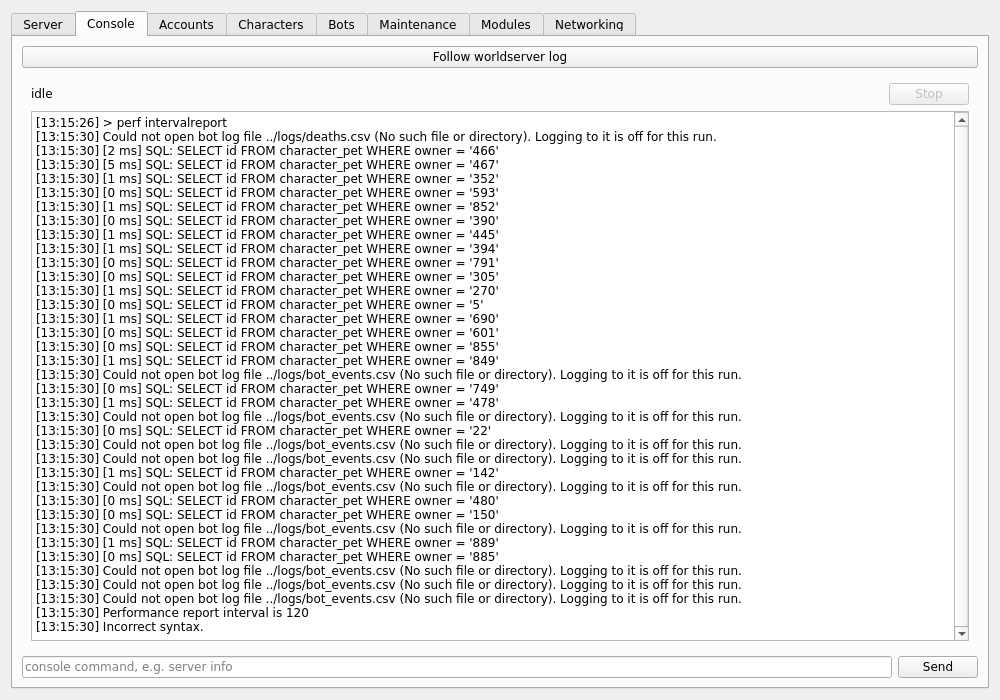
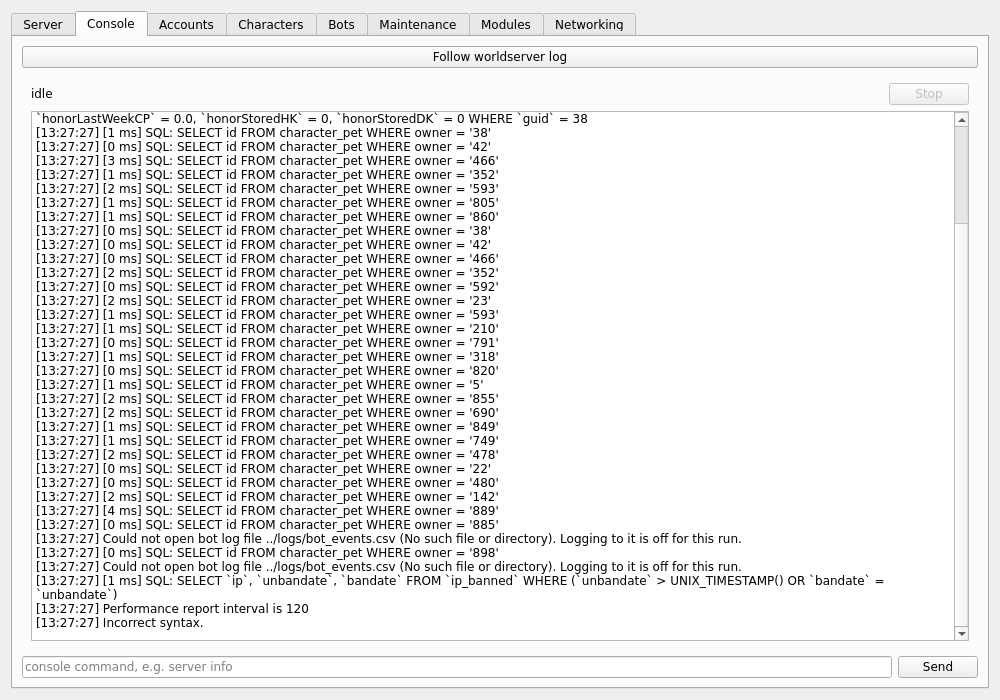
The gate re-run against the tree that actually ships
The first two passes ran a tree that black, ruff and mypy then changed. Nothing
behavioural moved, and re-running rather than asserting that is the point: run 3
is against the committed tip and its md5s are in the README beside the clauses.

The lane also paid for a warning worth leaving behind. Its FIRST --checks said
ALL GREEN over a tree containing none of the new files -- it was launched before
the commit and the helper syncs tracked files only, so it linted 183 files where
the finished tree has 186. The same command after the commit found five ruff
errors, one mypy error and two files black would reformat. Commit first, then
gate, and read the file count.

Changed region(s): [[0.031, 0.15, 0.868, 0.9]]

diff --git a/pyplan/gates/8.7d-tortoise-m910q-2026-09-08/README.md b/pyplan/gates/8.7d-tortoise-m910q-2026-09-08/README.md
@@ -1,4 +1,4 @@
-# 8.7d — Modules, WoW Tortoise — **RUN 2026-09-08 11:07Z–11:17Z on m910q**
+# 8.7d — Modules, WoW Tortoise — **RUN 2026-09-08 11:25Z–11:30Z on m910q**
 
 > **This file is a record, not a plan.** Every line below was produced against the
 > **live** Tortoise stack on m910q — `tortoise-db` / `tortoise-realmd` /
@@ -10,7 +10,7 @@
 >
 > **All five clauses passed.** Nothing was rebuilt, the source checkout was not
 > moved, and the box was left with the Tortoise stack up and
-> `etc/mangosd.conf` byte-identical to what it was at 11:07Z.
+> `etc/mangosd.conf` byte-identical to what it was at 11:25Z.
 
 **The box.** `pyplan/checklist.md:2504` — *"Modules, WoW Tortoise — as 8.7b, and
 nothing may run this fork's own database auto-update path while the world is up.
@@ -21,17 +21,41 @@ own in-game effect after the restart it asks for."*
 
 | clause | verdict | where |
 |---|---|---|
-| (1) a manifest set and a binding for this game | **PASSED** | `transcript.txt` 11:13:54Z; `1-modules-listed.png` |
-| (2) at least one manifest installs | **PASSED** | 11:14:03Z; `2-installed.png` |
-| (3) its key is reported by the running server **after the restart it asks for** | **PASSED** | 11:14:07Z (still 600, no restart) → 11:15:26Z (120, after); `3-reported-after-restart.png` |
-| (4) **nothing may run this fork's auto-update path while the world is up** | **PASSED** | 11:15:37Z–11:15:41Z; `4-refused-while-armed.png`, `5-permitted-again.png` |
-| (5) the item is reversible | **PASSED** | 11:15:42Z, byte-identical conf; `6-removed.png` |
+| (1) a manifest set and a binding for this game | **PASSED** | `transcript.txt` 11:25:48Z; `1-modules-listed.png` |
+| (2) at least one manifest installs | **PASSED** | 11:25:57Z; `2-installed.png` |
+| (3) its key is reported by the running server **after the restart it asks for** | **PASSED** | 11:26:01Z (still 600, no restart) → 11:27:23Z (120, after); `3-reported-after-restart.png` |
+| (4) **nothing may run this fork's auto-update path while the world is up** | **PASSED** | 11:29:07Z–11:29:11Z; `4-refused-while-armed.png`, `5-permitted-again.png` |
+| (5) the item is reversible | **PASSED** | 11:29:12Z, byte-identical conf; `6-removed.png` |
 | visible effect | **PASSED, and narrower than the manifest first claimed** | 11:12:47Z, `.perf cpu` — see *What the visible effect really is* |
 
-The tree that ran is the committed worktree tip, exported with `git archive` and
-unpacked to `~/gate87d/pylauncher`, with `manifests/wow-tortoise/mods/perf-report.json`
-replaced mid-run by its corrected version and **every stage then re-run against
-it** — the screenshots and the transcript are all from that second pass.
+**Which tree ran.** The gate was run three times and only the third is recorded
+here. Run 1 (11:07Z–11:17Z) passed every clause and then produced the finding
+below — that `Perf.ReportInterval` fires an empty function — so the manifest's
+name, description and notes were corrected. Run 2 (11:13Z–11:17Z) re-took the
+screenshots against the corrected manifest. Run 3, **this one**, is against the
+final committed tip, after `black`, `ruff --fix` and one mypy annotation touched
+`autoupdate.py`; nothing behavioural changed between runs 2 and 3, and re-running
+rather than asserting that is the point. The tree was exported with `git archive`
+and unpacked to `~/gate87d/pylauncher`:
+
+```
+bea06c21aa99cbdb47c02405eda0d0c2  yulon/controller_wow_tortoise/autoupdate.py
+f877e68d1c441d82744ad84d46b02b73  yulon/controller_wow_tortoise/modules.py
+4219085e7e2c9d6d3446051747449a8d  yulon/ui/controller_view.py
+677a6c807694f09cd21f065b18396d5c  manifests/wow-tortoise/mods/perf-report.json
+```
+
+Three readings in `transcript.txt` are still run 1's, because no later run could
+improve them and each is labelled where it appears: the by-hand migration
+subtraction (11:08:03Z), the worldserver's own `[DB Auto-Updater]` lines from the
+11:08:34Z start, and the `.perf cpu` capture (11:12:47Z).
+
+**A warning for the next lane, paid for here.** The first `--checks` run of this
+lane reported `ALL GREEN` over a tree that **did not contain any of the new
+files** — it was launched before the commit, and the helper syncs tracked files
+only, so it linted 183 files instead of 186. The same command after the commit
+found five ruff errors, one mypy error and two files black would reformat.
+Commit first, then gate, and read the file count.
 
 ---
 
@@ -74,19 +98,19 @@ same instants read 13:xx in `claude-say`'s output.
 
 | when | what | the server's own words |
 |---|---|---|
-| 11:13:58Z | ground, nothing installed | `Performance report interval is 600` |
-| 11:14:03Z | Install pressed **on the Modules tab** | `✓ set 2 key(s) in etc/mangosd.conf` |
-| 11:14:03Z | the file | `2196c2196 < Perf.ReportInterval = 600 --- > Perf.ReportInterval = 120` |
-| 11:14:07Z | asked again, **without restarting** | `Performance report interval is 600` |
-| 11:14:13–11:15:23Z | `controller.stop()` then `controller.start()`, ready in 69 s | |
-| **11:15:26Z** | **asked again** | **`Performance report interval is 120`** |
+| 11:25:56Z | ground, nothing installed | `Performance report interval is 600` |
+| 11:25:57Z | Install pressed **on the Modules tab** | `✓ set 2 key(s) in etc/mangosd.conf` |
+| 11:25:57Z | the file | `2196c2196 < Perf.ReportInterval = 600 --- > Perf.ReportInterval = 120` |
+| 11:26:01Z | asked again, **without restarting** | `Performance report interval is 600` |
+| 11:26:05–11:27:19Z | `controller.stop()` then `controller.start()`, ready in 73 s | |
+| **11:27:23Z** | **asked again** | **`Performance report interval is 120`** |
 
-The 11:14:07Z line is the one that makes the restart load-bearing rather than
+The 11:26:01Z line is the one that makes the restart load-bearing rather than
 decorative: the file had already changed and the running server had not moved.
 `build.restart` on this manifest is therefore a fact and not a guess.
 
 **Ground, read before the action and recorded:** `Perf.ReportInterval = 600` was
-already in `etc/mangosd.conf` at 11:13:54Z and `.perf intervalreport` already
+already in `etc/mangosd.conf` at 11:25:48Z and `.perf intervalreport` already
 said 600, so the step's assertion (`120`) was not true before it ran.
 
 Two honest details about that console reply:
@@ -133,7 +157,7 @@ computable from outside without starting anything.
 
 ### The reading, and the same reading by hand
 
-At 11:13:54Z the app answered
+At 11:25:48Z the app answered
 
 ```
 updater settings: enabled=True declared=True path='/opt/tortoise/sql/database_updates/'
@@ -174,11 +198,11 @@ the same running world**, and one file was the only difference:
 
 | when | the updater | the press on the Modules tab |
 |---|---|---|
-| 11:15:37Z | `world 0`, `armed=False` | **permitted** — `install perf-report:` |
-| 11:15:38Z | one `*.sql` written into `/opt/tortoise/sql/database_updates/world/` inside the running container | `world 1`, `armed=True` |
-| 11:15:39Z | armed | **REFUSED** (`4-refused-while-armed.png`) |
-| 11:15:39Z | probe file deleted | `world 0`, `armed=False` |
-| 11:15:41Z | disarmed | **permitted again** (`5-permitted-again.png`) |
+| 11:29:07Z | `world 0`, `armed=False` | **permitted** — `install perf-report:` |
+| 11:29:08Z | one `*.sql` written into `/opt/tortoise/sql/database_updates/world/` inside the running container | `world 1`, `armed=True` |
+| 11:29:09Z | armed | **REFUSED** (`4-refused-while-armed.png`) |
+| 11:29:10Z | probe file deleted | `world 0`, `armed=False` |
+| 11:29:11Z | disarmed | **permitted again** (`5-permitted-again.png`) |
 
 What the tab showed, verbatim:
 
@@ -229,7 +253,7 @@ the shipped value back and asks for exactly the same restart.
 And it is on the object **the tab actually holds**:
 `1-modules-listed.png` is `ControllerServices.for_entry(...)`'s own view, and
 the transcript records `applier = yulon.controller_wow_tortoise.autoupdate.GuardedApplier`
-at 11:13:54Z. A guard built correctly in `modules.py` and a plain `Applier`
+at 11:25:48Z. A guard built correctly in `modules.py` and a plain `Applier`
 passed from `controller_view` would have passed every unit test and guarded
 nothing anybody presses.
 
@@ -308,8 +332,8 @@ Also not proved here:
 ## What was left on m910q
 
 The **Tortoise** stack **up** (`tortoise-db` healthy, `tortoise-realmd`,
-`tortoise-mangosd` — ready line at 11:16:54Z), on the pre-rebuild image.
-`etc/mangosd.conf` sha256 `cf679be7…`, **the same value it had at 11:07:23Z**,
+`tortoise-mangosd` — ready line at 11:30:24Z), on the pre-rebuild image.
+`etc/mangosd.conf` sha256 `cf679be7…`, **the same value it had at 11:25:48Z**,
 with the gate's own copy kept beside it as `etc/mangosd.conf.before-87d`. The
 probe file is gone. TBC and Vanilla stay stopped — one server at a time. Nothing
 was rebuilt and `src/tortoise-wow` is untouched at `3a8472e`.
